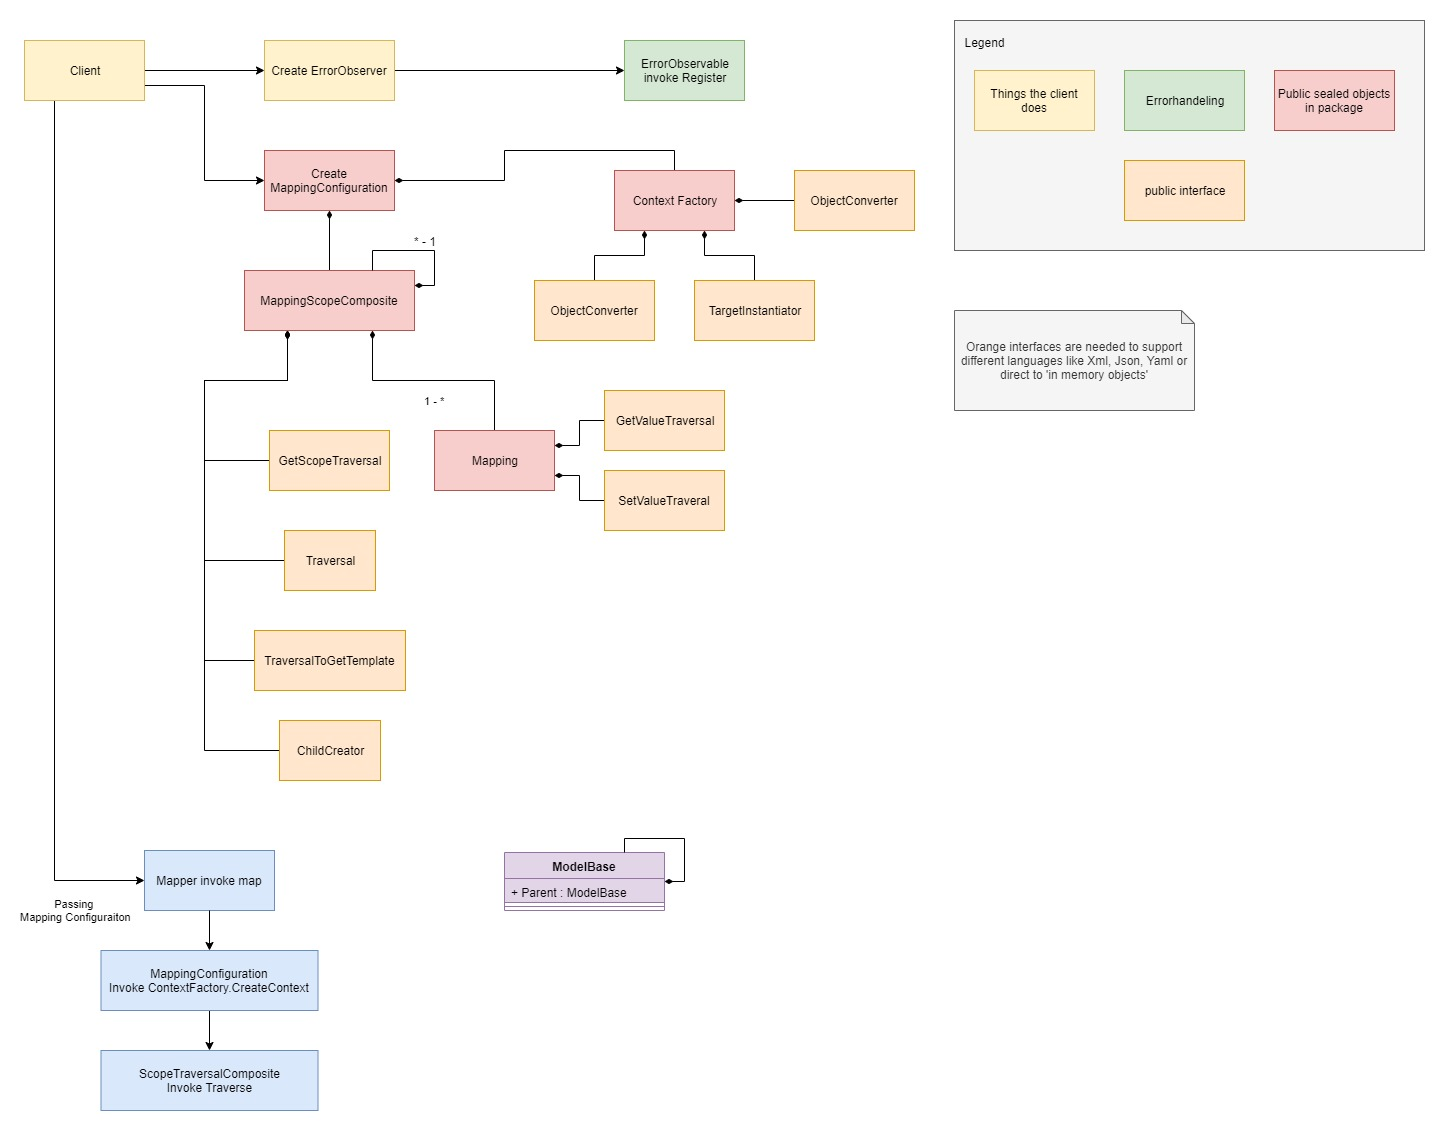
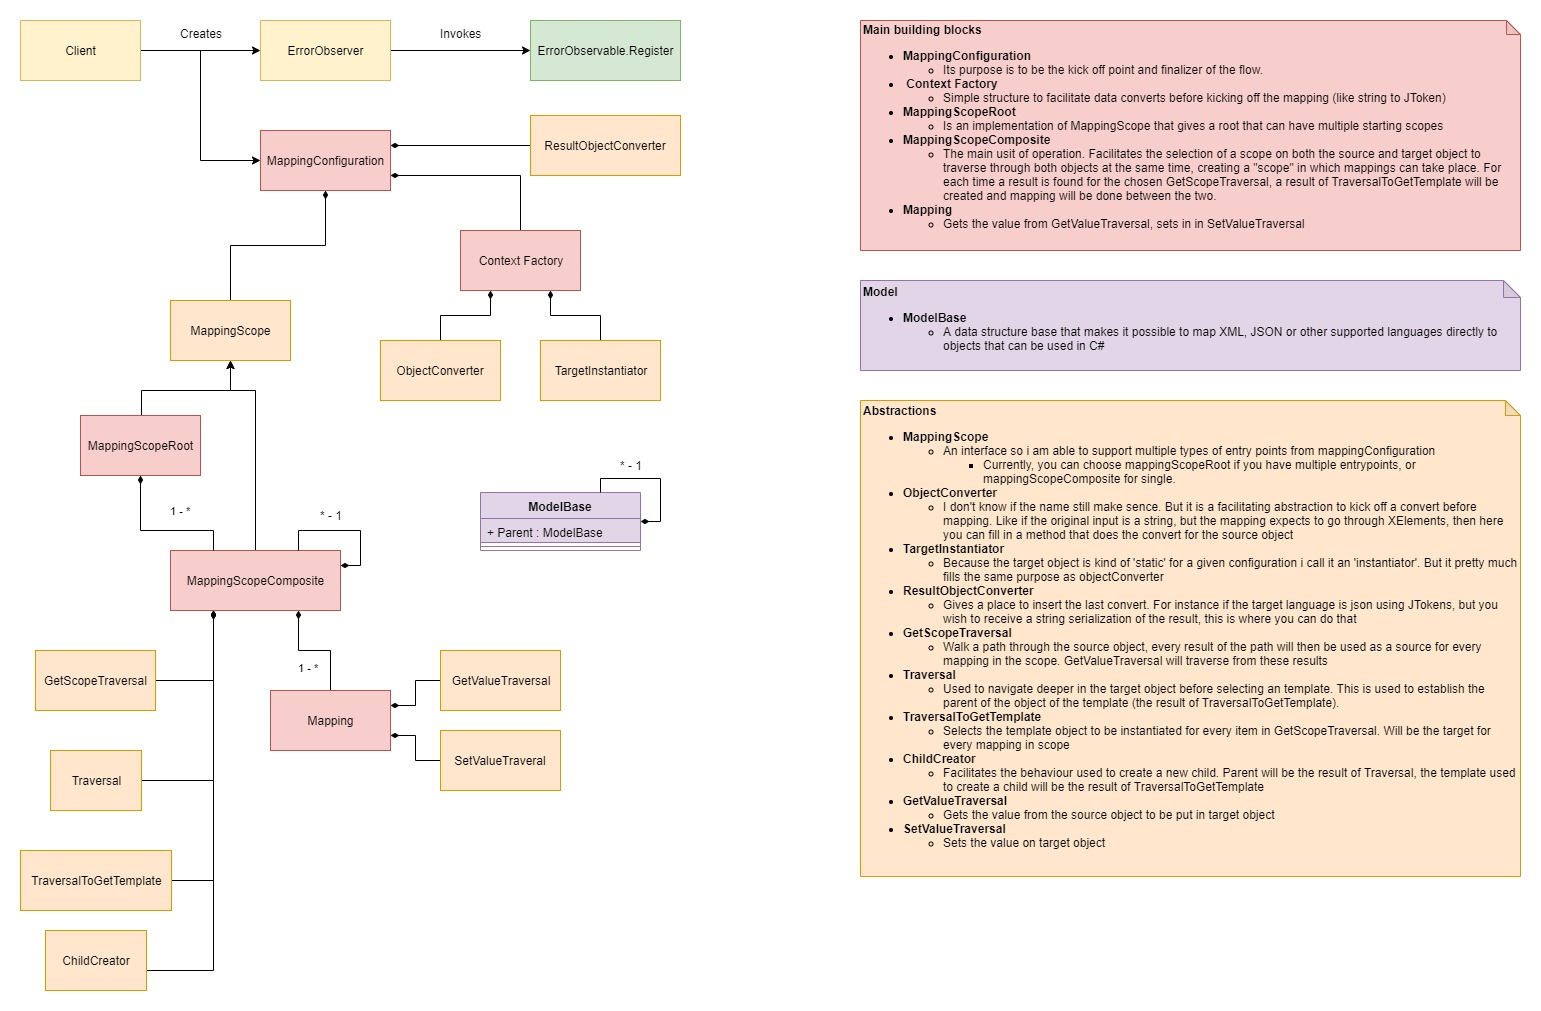
update documentation

diff --git a/README.md b/README.md
@@ -1,8 +1,19 @@
 # AdaptableMapper
 
-A package for any to any mapping without hardcoding
+A package for any to any mapping without hardcoding.
+The implementation is set up with storage in mind through serialization. I use newtonsoft for serializing the composite for storage (see object JsonSerializer)
+But ofcourse you can use your own methods for storage!
 
-## Plans
+## I'd like your help!
+
+Simply put, do what you want with my code, help me build it, test it, and help it grow, my goal is to spread this idea, and hopefully make the lives of programmers in companies that are build around API intergrations allot easier!
+I've worked for a few companies that all struggle with integrations. I think i've found a simple yet useful concept that elevates the configuration of mapping from hardcoding to softcoding.
+This package is only an abstract representation of that idea. Storage of configuration and giving it actual meaning is up to you. And I hope with you and your experience this idea can grow!
+
+So please, ask questions, give feedback, make comments, create pullrequests!
+Copy my code, install my packages, use it for yourself and help it grow. :)
+
+## Roadmap
 
 Completed plans:
  - Create an algorithm flexible enough to support any to any conversion
@@ -11,6 +22,7 @@ Completed plans:
  - Implement Model mapping
  - Implement Json mapping
  - Add null checks for the composite tree
+ - Write documentation
 
 Current plans:
  - Add 100% code coverage tests for Model Mapping
@@ -18,28 +30,41 @@ Current plans:
 Future plans in relative priority order:
  - Add 100% code coverage tests for Xml Mapping
  - Add 100% code coverage tests for Json Mapping
- - Write documentation
 
-## How to use
+### Prerequisites
+
+As long as I'm in alpha, ill only build the package for .NET framework.
+After I feel confident the package is stable I will research how to deploy for .NET standard (i think that includes .NET Core or visa versa)
+
+### Installing
+
+See installation instructions on nuget.org where the package is hosted:
+```
+https://www.nuget.org/packages/AdaptableMapper/
+```
+
+### How to use
 
 Mock up of structure and flow:
 
 ![UML](Mapping.jpg)
 
---Todo
+See unit tests for examples on mappingConfiguration
 
-## Versioning
+### Versioning
 
-I use [SemVer](http://semver.org/) for versioning. (But forgive me if i mess that up sometimes, just correct me on it!)
+I use [SemVer](http://semver.org/) for versioning. (I've got no clue on what that says for alpha releases, so when I reach 1.0.0 Ill start using SemVer, for now 0.X.0 will be used for breaking changes, 0.0.X will be used for bugfixes or non-breaking changes)
 
-## Authors
+### Authors
 
 * **Davey van Tilburg**
 
-## License
+### License
 
-This project is licensed under the WTFPL License - see the [License.txt](AdaptableMapper/License.txt) file for details
+See the [License.txt](AdaptableMapper/License.txt) file for details
+Do what ever the f*** you want! (But please respect eachother in the process)
 
-## Acknowledgments
+### Acknowledgments
 
 * Newtonsoft for json serialization
+* SmartHOTEL, the company I work for currently, where I can put the package to use and see a product grow. The first usecase.
